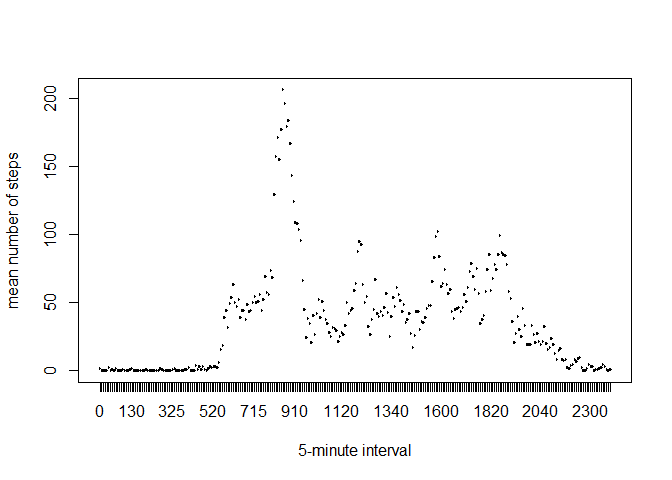
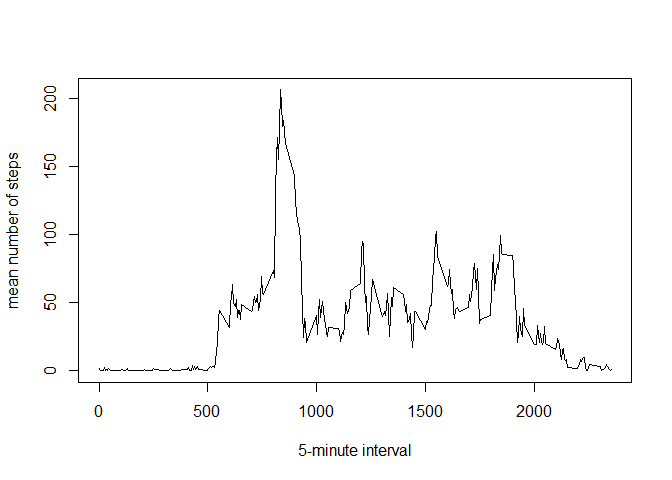
don't make the interval a factor

diff --git a/RepData_PeerAssessment1.html b/RepData_PeerAssessment1.html
@@ -386,10 +386,10 @@ $(document).ready(function () {
 <p>Load the data into a dataframe.</p>
 <pre class="r"><code>unzip(&quot;activity.zip&quot;)
 DF&lt;- read.csv(&quot;activity.csv&quot;)</code></pre>
-<p>Use <code>tidyverse</code> and <code>lubridate</code> to make the date column read as dates, the interval column as factors, and turn the whole dataframe into a tibble.</p>
+<p>Use <code>tidyverse</code> and <code>lubridate</code> to make the date column read as dates and turn the whole dataframe into a tibble.</p>
 <pre class="r"><code>library(tidyverse)</code></pre>
 <pre><code>## Warning: package &#39;tidyverse&#39; was built under R version 3.5.3</code></pre>
-<pre><code>## -- Attaching packages -------------------------------------------------------------------------------------- tidyverse 1.2.1 --</code></pre>
+<pre><code>## -- Attaching packages -------------------------------------------------------------------------------------------------------------- tidyverse 1.2.1 --</code></pre>
 <pre><code>## v ggplot2 3.2.0     v purrr   0.3.2
 ## v tibble  2.1.3     v dplyr   0.8.2
 ## v tidyr   0.8.3     v stringr 1.4.0
@@ -400,7 +400,7 @@ DF&lt;- read.csv(&quot;activity.csv&quot;)</code></pre>
 <pre><code>## Warning: package &#39;purrr&#39; was built under R version 3.5.3</code></pre>
 <pre><code>## Warning: package &#39;dplyr&#39; was built under R version 3.5.3</code></pre>
 <pre><code>## Warning: package &#39;forcats&#39; was built under R version 3.5.3</code></pre>
-<pre><code>## -- Conflicts ----------------------------------------------------------------------------------------- tidyverse_conflicts() --
+<pre><code>## -- Conflicts ----------------------------------------------------------------------------------------------------------------- tidyverse_conflicts() --
 ## x dplyr::filter() masks stats::filter()
 ## x dplyr::lag()    masks stats::lag()</code></pre>
 <pre class="r"><code>library(lubridate)</code></pre>
@@ -411,22 +411,21 @@ DF&lt;- read.csv(&quot;activity.csv&quot;)</code></pre>
 ## 
 ##     date</code></pre>
 <pre class="r"><code>DF$date &lt;- ymd(DF$date)
-DF$interval &lt;- as.factor(DF$interval)
 DF&lt;- as_tibble(DF)
 DF</code></pre>
 <pre><code>## # A tibble: 17,568 x 3
 ##    steps date       interval
-##    &lt;int&gt; &lt;date&gt;     &lt;fct&gt;   
-##  1    NA 2012-10-01 0       
-##  2    NA 2012-10-01 5       
-##  3    NA 2012-10-01 10      
-##  4    NA 2012-10-01 15      
-##  5    NA 2012-10-01 20      
-##  6    NA 2012-10-01 25      
-##  7    NA 2012-10-01 30      
-##  8    NA 2012-10-01 35      
-##  9    NA 2012-10-01 40      
-## 10    NA 2012-10-01 45      
+##    &lt;int&gt; &lt;date&gt;        &lt;int&gt;
+##  1    NA 2012-10-01        0
+##  2    NA 2012-10-01        5
+##  3    NA 2012-10-01       10
+##  4    NA 2012-10-01       15
+##  5    NA 2012-10-01       20
+##  6    NA 2012-10-01       25
+##  7    NA 2012-10-01       30
+##  8    NA 2012-10-01       35
+##  9    NA 2012-10-01       40
+## 10    NA 2012-10-01       45
 ## # ... with 17,558 more rows</code></pre>
 </div>
 <div id="what-is-the-mean-total-number-of-steps-taken-per-day" class="section level2">
@@ -486,21 +485,21 @@ by_date</code></pre>
 by_interval_mean</code></pre>
 <pre><code>## # A tibble: 288 x 2
 ##    interval mean_steps
-##    &lt;fct&gt;         &lt;dbl&gt;
-##  1 0            1.72  
-##  2 5            0.340 
-##  3 10           0.132 
-##  4 15           0.151 
-##  5 20           0.0755
-##  6 25           2.09  
-##  7 30           0.528 
-##  8 35           0.868 
-##  9 40           0     
-## 10 45           1.47  
+##       &lt;int&gt;      &lt;dbl&gt;
+##  1        0     1.72  
+##  2        5     0.340 
+##  3       10     0.132 
+##  4       15     0.151 
+##  5       20     0.0755
+##  6       25     2.09  
+##  7       30     0.528 
+##  8       35     0.868 
+##  9       40     0     
+## 10       45     1.47  
 ## # ... with 278 more rows</code></pre>
 <p>Now create the desired plot.</p>
 <pre class="r"><code>with(by_interval_mean,plot(interval,mean_steps,type=&quot;l&quot;,xlab=&quot;5-minute interval&quot;,ylab=&quot;mean number of steps&quot;))</code></pre>
[2 lines of base64/hex data omitted]
 <ol start="2" style="list-style-type: decimal">
 <li><strong>Which 5-minute interval, on average across all the days in the dataset, contains the maximum number of steps?</strong></li>
 </ol>
@@ -508,8 +507,8 @@ by_interval_mean</code></pre>
 <pre class="r"><code>by_interval_mean[which.max(by_interval_mean$mean_steps),]</code></pre>
 <pre><code>## # A tibble: 1 x 2
 ##   interval mean_steps
-##   &lt;fct&gt;         &lt;dbl&gt;
-## 1 835            206.</code></pre>
+##      &lt;int&gt;      &lt;dbl&gt;
+## 1      835       206.</code></pre>
 </div>
 <div id="imputing-missing-values" class="section level2">
 <h2>Imputing missing values</h2>
@@ -518,14 +517,14 @@ by_interval_mean</code></pre>
 <li>Calculate and report the total number of missing values in the dataset (i.e. the total number of rows with NAs)</li>
 </ol>
 <pre class="r"><code>summary(DF)</code></pre>
-<pre><code>##      steps             date               interval    
-##  Min.   :  0.00   Min.   :2012-10-01   0      :   61  
-##  1st Qu.:  0.00   1st Qu.:2012-10-16   5      :   61  
-##  Median :  0.00   Median :2012-10-31   10     :   61  
-##  Mean   : 37.38   Mean   :2012-10-31   15     :   61  
-##  3rd Qu.: 12.00   3rd Qu.:2012-11-15   20     :   61  
-##  Max.   :806.00   Max.   :2012-11-30   25     :   61  
-##  NA&#39;s   :2304                          (Other):17202</code></pre>
+<pre><code>##      steps             date               interval     
+##  Min.   :  0.00   Min.   :2012-10-01   Min.   :   0.0  
+##  1st Qu.:  0.00   1st Qu.:2012-10-16   1st Qu.: 588.8  
+##  Median :  0.00   Median :2012-10-31   Median :1177.5  
+##  Mean   : 37.38   Mean   :2012-10-31   Mean   :1177.5  
+##  3rd Qu.: 12.00   3rd Qu.:2012-11-15   3rd Qu.:1766.2  
+##  Max.   :806.00   Max.   :2012-11-30   Max.   :2355.0  
+##  NA&#39;s   :2304</code></pre>
 <p>There are <code>2,304 NA</code> values.</p>
 <ol start="2" style="list-style-type: decimal">
 <li>Devise a strategy for filling in all of the missing values in the dataset. The strategy does not need to be sophisticated. For example, you could use the mean/median for that day, or the mean for that 5-minute interval, etc.</li>

diff --git a/RepData_PeerAssessment1.md b/RepData_PeerAssessment1.md
@@ -17,7 +17,7 @@ Load the data into a dataframe.
 unzip("activity.zip")
 DF<- read.csv("activity.csv")
 ```
-Use `tidyverse` and `lubridate` to make the date column read as dates, the interval column as factors, and turn the whole dataframe into a tibble.
+Use `tidyverse` and `lubridate` to make the date column read as dates and turn the whole dataframe into a tibble.
 
 ```r
 library(tidyverse)
@@ -28,7 +28,7 @@ library(tidyverse)
 ```
 
 ```
-## -- Attaching packages -------------------------------------------------------------------------------------- tidyverse 1.2.1 --
+## -- Attaching packages -------------------------------------------------------------------------------------------------------------- tidyverse 1.2.1 --
 ```
 
 ```
@@ -63,7 +63,7 @@ library(tidyverse)
 ```
 
 ```
-## -- Conflicts ----------------------------------------------------------------------------------------- tidyverse_conflicts() --
+## -- Conflicts ----------------------------------------------------------------------------------------------------------------- tidyverse_conflicts() --
 ## x dplyr::filter() masks stats::filter()
 ## x dplyr::lag()    masks stats::lag()
 ```
@@ -89,7 +89,6 @@ library(lubridate)
 
 ```r
 DF$date <- ymd(DF$date)
-DF$interval <- as.factor(DF$interval)
 DF<- as_tibble(DF)
 DF
 ```
@@ -97,17 +96,17 @@ DF
 ```
 ## # A tibble: 17,568 x 3
 ##    steps date       interval
-##    <int> <date>     <fct>   
-##  1    NA 2012-10-01 0       
-##  2    NA 2012-10-01 5       
-##  3    NA 2012-10-01 10      
-##  4    NA 2012-10-01 15      
-##  5    NA 2012-10-01 20      
-##  6    NA 2012-10-01 25      
-##  7    NA 2012-10-01 30      
-##  8    NA 2012-10-01 35      
-##  9    NA 2012-10-01 40      
-## 10    NA 2012-10-01 45      
+##    <int> <date>        <int>
+##  1    NA 2012-10-01        0
+##  2    NA 2012-10-01        5
+##  3    NA 2012-10-01       10
+##  4    NA 2012-10-01       15
+##  5    NA 2012-10-01       20
+##  6    NA 2012-10-01       25
+##  7    NA 2012-10-01       30
+##  8    NA 2012-10-01       35
+##  9    NA 2012-10-01       40
+## 10    NA 2012-10-01       45
 ## # ... with 17,558 more rows
 ```
 
@@ -198,17 +197,17 @@ by_interval_mean
 ```
 ## # A tibble: 288 x 2
 ##    interval mean_steps
-##    <fct>         <dbl>
-##  1 0            1.72  
-##  2 5            0.340 
-##  3 10           0.132 
-##  4 15           0.151 
-##  5 20           0.0755
-##  6 25           2.09  
-##  7 30           0.528 
-##  8 35           0.868 
-##  9 40           0     
-## 10 45           1.47  
+##       <int>      <dbl>
+##  1        0     1.72  
+##  2        5     0.340 
+##  3       10     0.132 
+##  4       15     0.151 
+##  5       20     0.0755
+##  6       25     2.09  
+##  7       30     0.528 
+##  8       35     0.868 
+##  9       40     0     
+## 10       45     1.47  
 ## # ... with 278 more rows
 ```
 
@@ -233,8 +232,8 @@ by_interval_mean[which.max(by_interval_mean$mean_steps),]
 ```
 ## # A tibble: 1 x 2
 ##   interval mean_steps
-##   <fct>         <dbl>
-## 1 835            206.
+##      <int>      <dbl>
+## 1      835       206.
 ```
 
 ## Imputing missing values
@@ -249,14 +248,14 @@ summary(DF)
 ```
 
 ```
-##      steps             date               interval    
-##  Min.   :  0.00   Min.   :2012-10-01   0      :   61  
-##  1st Qu.:  0.00   1st Qu.:2012-10-16   5      :   61  
-##  Median :  0.00   Median :2012-10-31   10     :   61  
-##  Mean   : 37.38   Mean   :2012-10-31   15     :   61  
-##  3rd Qu.: 12.00   3rd Qu.:2012-11-15   20     :   61  
-##  Max.   :806.00   Max.   :2012-11-30   25     :   61  
-##  NA's   :2304                          (Other):17202
+##      steps             date               interval     
+##  Min.   :  0.00   Min.   :2012-10-01   Min.   :   0.0  
+##  1st Qu.:  0.00   1st Qu.:2012-10-16   1st Qu.: 588.8  
+##  Median :  0.00   Median :2012-10-31   Median :1177.5  
+##  Mean   : 37.38   Mean   :2012-10-31   Mean   :1177.5  
+##  3rd Qu.: 12.00   3rd Qu.:2012-11-15   3rd Qu.:1766.2  
+##  Max.   :806.00   Max.   :2012-11-30   Max.   :2355.0  
+##  NA's   :2304
 ```
 
 There are `2,304 NA` values. 
